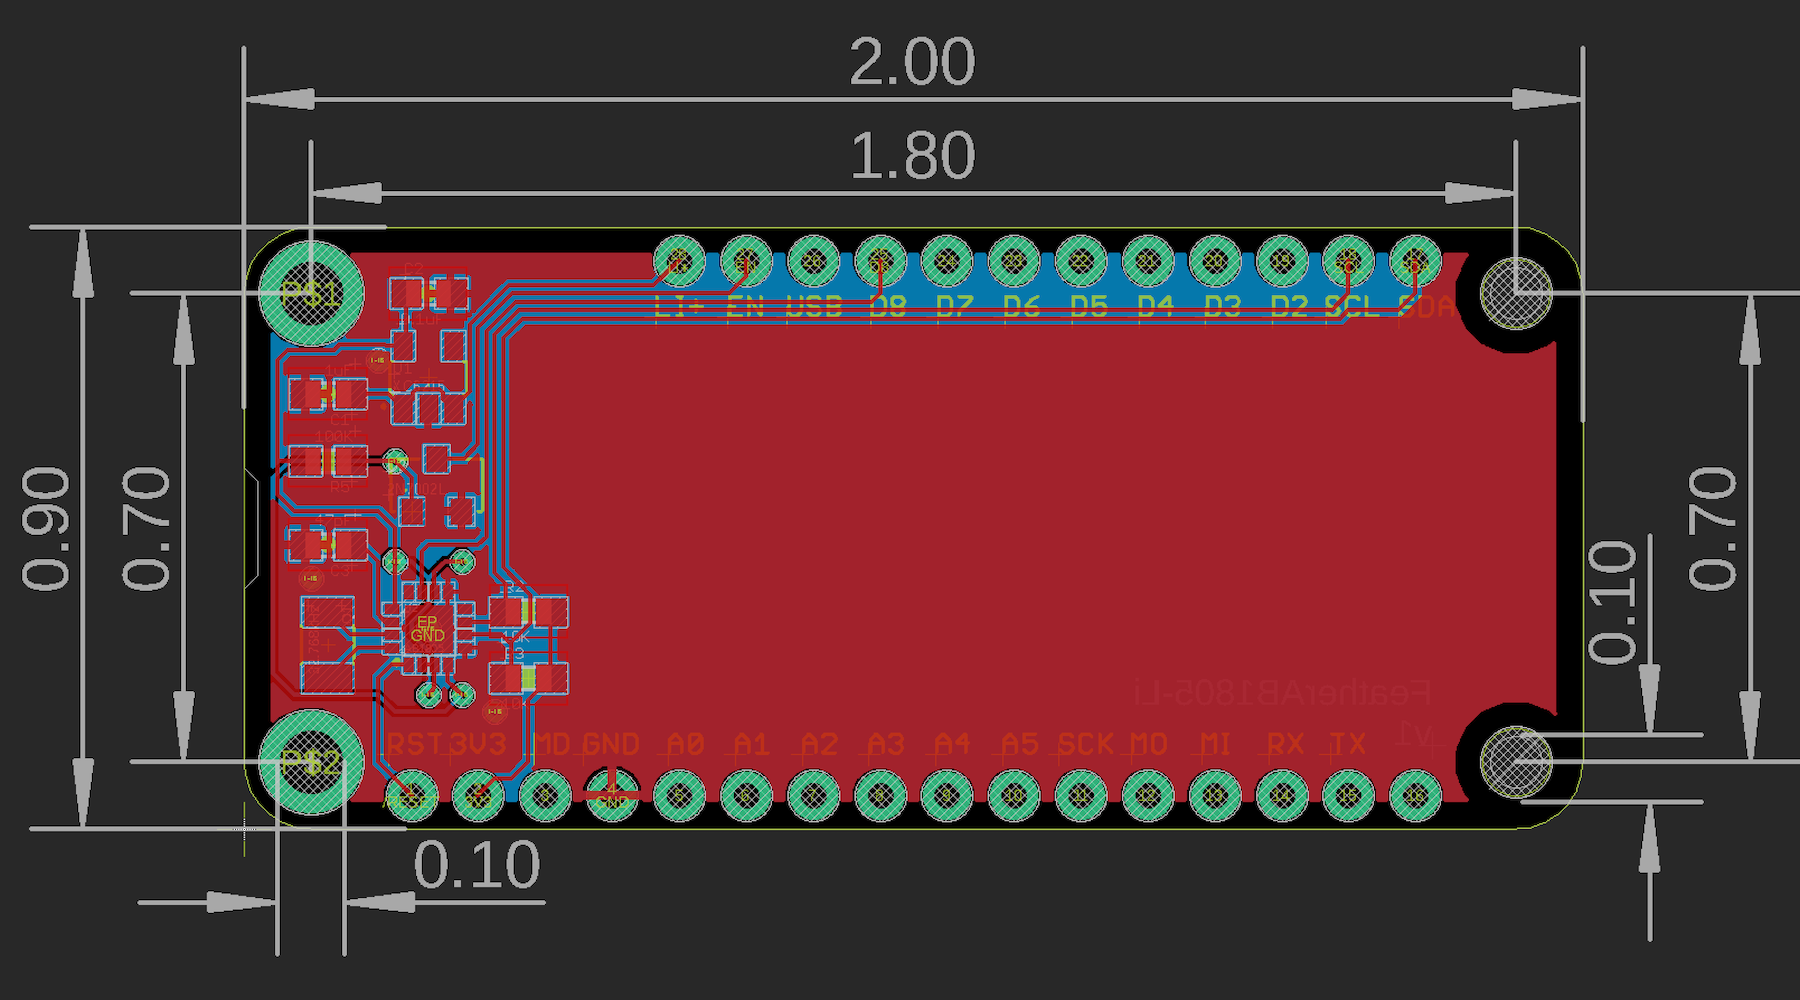
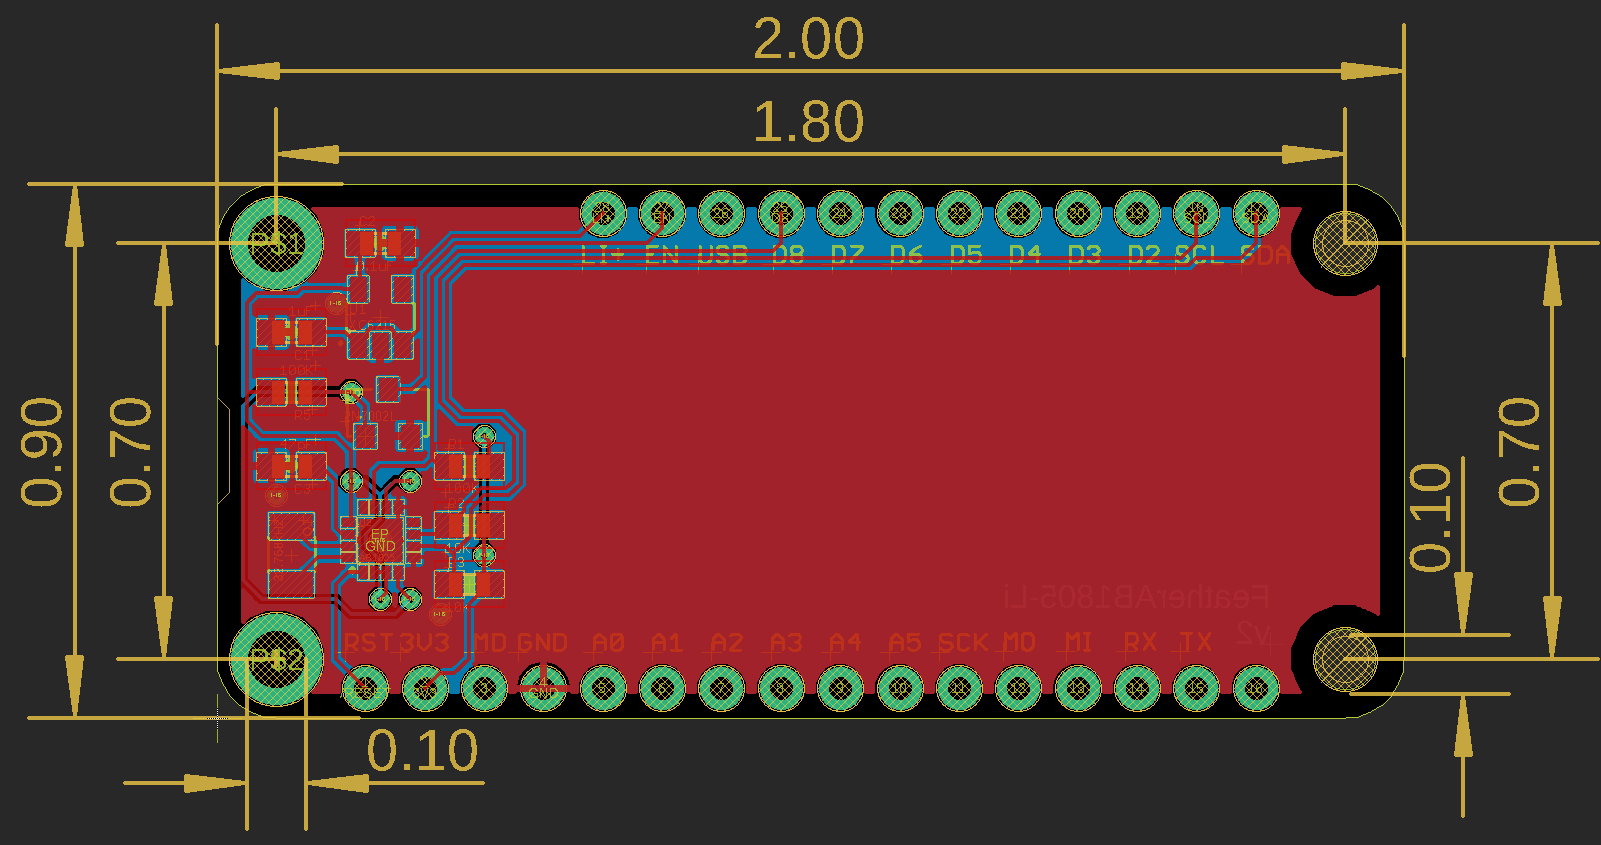
Update AB1805-Li design

Changed region(s): [[0.0, 0.0, 1.0, 0.9538]]

diff --git a/src/assets/files/app-notes/AN023/firmware/03-periodic-wake/03-periodic-wake.cpp b/src/assets/files/app-notes/AN023/firmware/03-periodic-wake/03-periodic-wake.cpp
@@ -39,8 +39,8 @@ void setup() {
     waitFor(Serial.isConnected, 15000);
     delay(1000);
 
-    // The sample board has D8 connected to FOUT for wake interrupts
-    ab1805.withFOUT(D8).setup();
+    // The sample board has D8 (Argon/Boron) or D10 (Photon 2) connected to FOUT for wake interrupts
+    ab1805.withFOUT(WKP).setup();
 
     // Note whether the RTC is set before calling resetConfig() as this will make
     // isRTCSet return false.
@@ -109,7 +109,7 @@ void loop() {
 
         SystemSleepConfiguration config;
         config.mode(SystemSleepMode::HIBERNATE)
-            .gpio(D8, FALLING);
+            .gpio(WKP, FALLING);
         System.sleep(config);
 
         // This should never be reached

diff --git a/src/assets/files/app-notes/AN023/firmware/07-deep-power/07-deep-power.cpp b/src/assets/files/app-notes/AN023/firmware/07-deep-power/07-deep-power.cpp
@@ -18,7 +18,7 @@ void setup() {
     waitFor(Serial.isConnected, 15000);
     delay(1000);
 
-    ab1805.withFOUT(D8).setup();
+    ab1805.withFOUT(WKP).setup();
 
     AB1805::WakeReason wakeReason = ab1805.getWakeReason();
     if (wakeReason == AB1805::WakeReason::DEEP_POWER_DOWN) {

diff --git a/src/content/hardware/best-practices/watchdog-timers.md b/src/content/hardware/best-practices/watchdog-timers.md
@@ -266,6 +266,8 @@ The AB1805-SC (supercap) version can be used when powered by USB or LiPo.
 
 ![AB1805-Li Bottom](/assets/images/app-notes/AN023/ab1805-li-bottom.jpg)
 
+These pictures are of v1 of the board.
+
 #### Schematic and Board - AB1805-Li
 
 ![Schematic](/assets/images/app-notes/AN023/ab1805-li-schematic.png)
@@ -273,6 +275,8 @@ The AB1805-SC (supercap) version can be used when powered by USB or LiPo.
 ![Board Layout](/assets/images/app-notes/AN023/ab1805-li-board.png)
 
 The Eagle files are in the eagle/FeatherAB1805-Li directory.
+
+- V2 of the board added R1, a 100K pull-up from D8 to 3V3. This was present on the FeatherAB1805-Sc board, but missing from the Li board.
 
 #### BoM (Bill of Materials) - AB1805-Li
 
@@ -282,7 +286,7 @@ The Eagle files are in the eagle/FeatherAB1805-Li directory.
 | 1 | C2 | CAP CER 0.1UF 25V X7R 0603 | [Samsung CL10B104KA8NNNC](https://www.digikey.com/product-detail/en/samsung-electro-mechanics/CL10B104KA8NNNC/1276-1006-1-ND/3889092) | |
 | 1 | C3 | CAP CER 47PF 100V C0G/NP0 0603 | [Murata GCM1885C2A470FA16D](https://www.digikey.com/product-detail/en/murata-electronics/GCM1885C2A470FA16D/490-16408-1-ND/7363390) | |
 | 2 | R2, R3 | RES SMD 10K OHM 5% 1/4W 0603 | [Panasonic ERJ-PA3J103V](https://www.digikey.com/product-detail/en/panasonic-electronic-components/ERJ-PA3J103V/P10KBZCT-ND/5036237) | | 
-| 1 | R5 | RES SMD 100K OHM 1% 1/10W 0603 | [Panasonic ERJ-3EKF1003V](https://www.digikey.com/product-detail/en/panasonic-electronic-components/ERJ-3EKF1003V/P100KHCT-ND/198110) | |
+| 2 | R1, R5 | RES SMD 100K OHM 1% 1/10W 0603 | [Panasonic ERJ-3EKF1003V](https://www.digikey.com/product-detail/en/panasonic-electronic-components/ERJ-3EKF1003V/P100KHCT-ND/198110) | |
 | 1 | Q1 | CRYSTAL 32.7680KHZ 6PF SMD | [Abracon ABS07-120-32.768KHZ-T](https://www.digikey.com/product-detail/en/abracon-llc/ABS07-120-32-768KHZ-T/535-11937-1-ND/3724046) | $0.77 |
 | 1 | Q2 | MOSFET N-CH 60V 0.115A SOT-23 | [On Semiconductor 2N7002LT1G](https://www.digikey.com/product-detail/en/on-semiconductor/2N7002LT3G/2N7002LT3GOSCT-ND/2704932) | |
 | 1 | U1 | IC REG LINEAR 3.3V 200MA SOT25 | [Torex XC6215B332MR-G](https://www.digikey.com/product-detail/en/torex-semiconductor-ltd/XC6215B332MR-G/893-1078-1-ND/2138269) | $0.71 |
@@ -300,6 +304,12 @@ Of note in this design is the use of a separate regulator to power the AB1805. T
 ![XC6215](/assets/images/app-notes/AN023/xc6215.png)
 
 This power supply (3V3R) is connected to VCC on the AB1805 so it will stay fully powered. This is necessary because deep power down mode uses the EN pin to turn off the MCU 3V3 power, so we can't power the AB1805 from 3V3 without external power. The AB1805-SC design, below, uses a supercap instead of a separate regulator.
+
+### Software note for Photon 2 - AB1805-Li
+
+If you are using the wake from hibernate sleep feature with the Photon 2, note that the pin next to D7 is D10, but is in the same position as the Boron/Argon D8. If you use the constant `WKP` the correct pin name will be used, but be aware of this if you hardcode D8 or D10 in your code.
+
+Only the WKP pin can be used to wake the P2, Photon 2, and M-SoM from hibernate sleep. Also, WKP does not support software pull-up while in hibernate sleep mode.
 
 
 ### FeatherWing - AB1805-SC
@@ -344,6 +354,13 @@ The Eagle files are in the eagle/FeatherAB1805-SC directory.
 
 
 ### Hardware design - AB1805-SC
+
+### Software note for Photon 2 - AB1805-Sc
+
+If you are using the wake from hibernate sleep feature with the Photon 2, note that the pin next to D7 is D10, but is in the same position as the Boron/Argon D8. If you use the constant `WKP` the correct pin name will be used, but be aware of this if you hardcode D8 or D10 in your code.
+
+Only the WKP pin can be used to wake the P2, Photon 2, and M-SoM from hibernate sleep. Also, WKP does not support software pull-up while in hibernate sleep mode.
+
 
 ### Supercap calculations - AB1805-SC
 

diff --git a/src/content/getting-started/new.md b/src/content/getting-started/new.md
@@ -22,6 +22,10 @@ The header format must be exactly that because the search feature uses that to d
 --}}
 
 
+### FeatherAB1805-Li fix 2024-06-14
+
+Updated the design files for [FeatherAB1805-Li](/hardware/best-practices/watchdog-timers/#featherwing-ab1805-li) to add a missing pull-up resistor that would affect using it with the Photon 2.
+
 ### FCC permissive change 2024-06-14
 
 Added link to the FCC permissive change policy document to the [Certification guide](/hardware/certification/certification/#fcc-united-states-rf-certifications).
